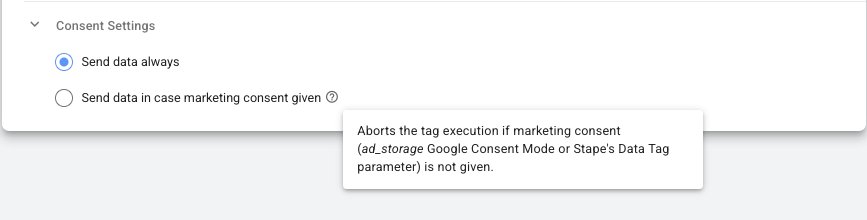
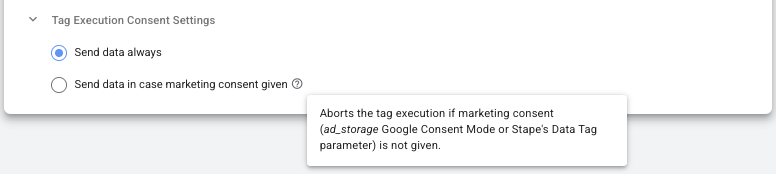
Update GTMS-2 section UI name

diff --git a/standards/GTMS-2.md b/standards/GTMS-2.md
@@ -22,11 +22,11 @@ This standard provides a way to manage consent in the SGTM templates.
  ```js
 const eventData = getAllEventData();
 
-if (!isConsentGivenOrNotRequired()) {
+if (!isConsentGivenOrNotRequired(data, eventData)) {
   return data.gtmOnSuccess();
 }
 
-function isConsentGivenOrNotRequired() {
+function isConsentGivenOrNotRequired(data, eventData) {
   if (data.adStorageConsent !== 'required') return true;
   if (eventData.consent_state) return !!eventData.consent_state.ad_storage;
   const xGaGcs = eventData['x-ga-gcs'] || ''; // x-ga-gcs is a string like "G110"
@@ -42,8 +42,8 @@ function isConsentGivenOrNotRequired() {
 ```json
 {
   "type": "GROUP",
-  "name": "consentSettingsGroup",
-  "displayName": "Consent Settings",
+  "name": "tagExecutionConsentSettingsGroup",
+  "displayName": "Tag Execution Consent Settings",
   "groupStyle": "ZIPPY_CLOSED",
   "subParams": [
     {
